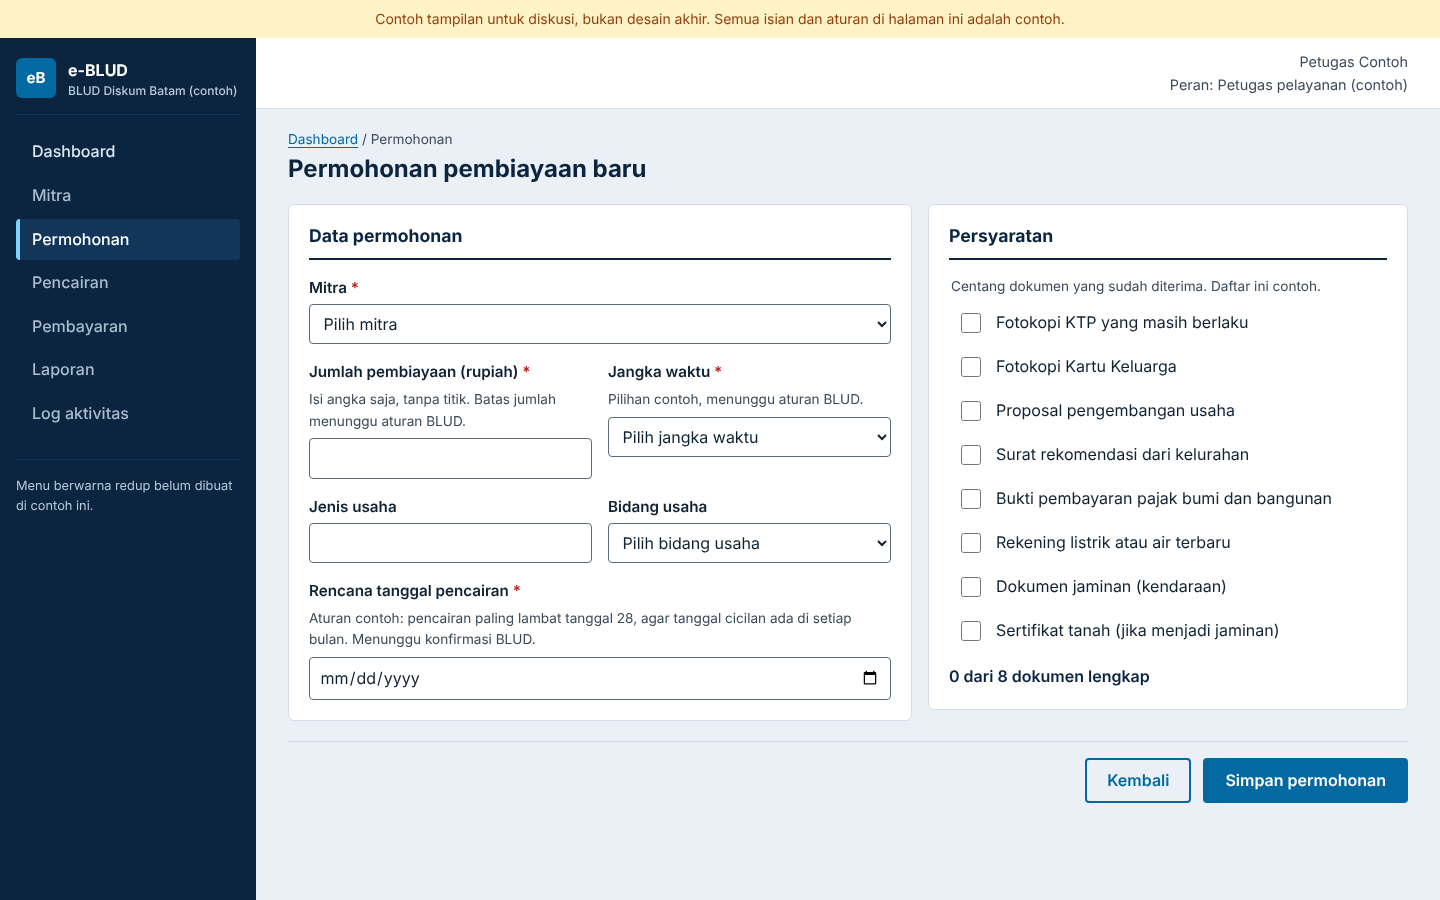
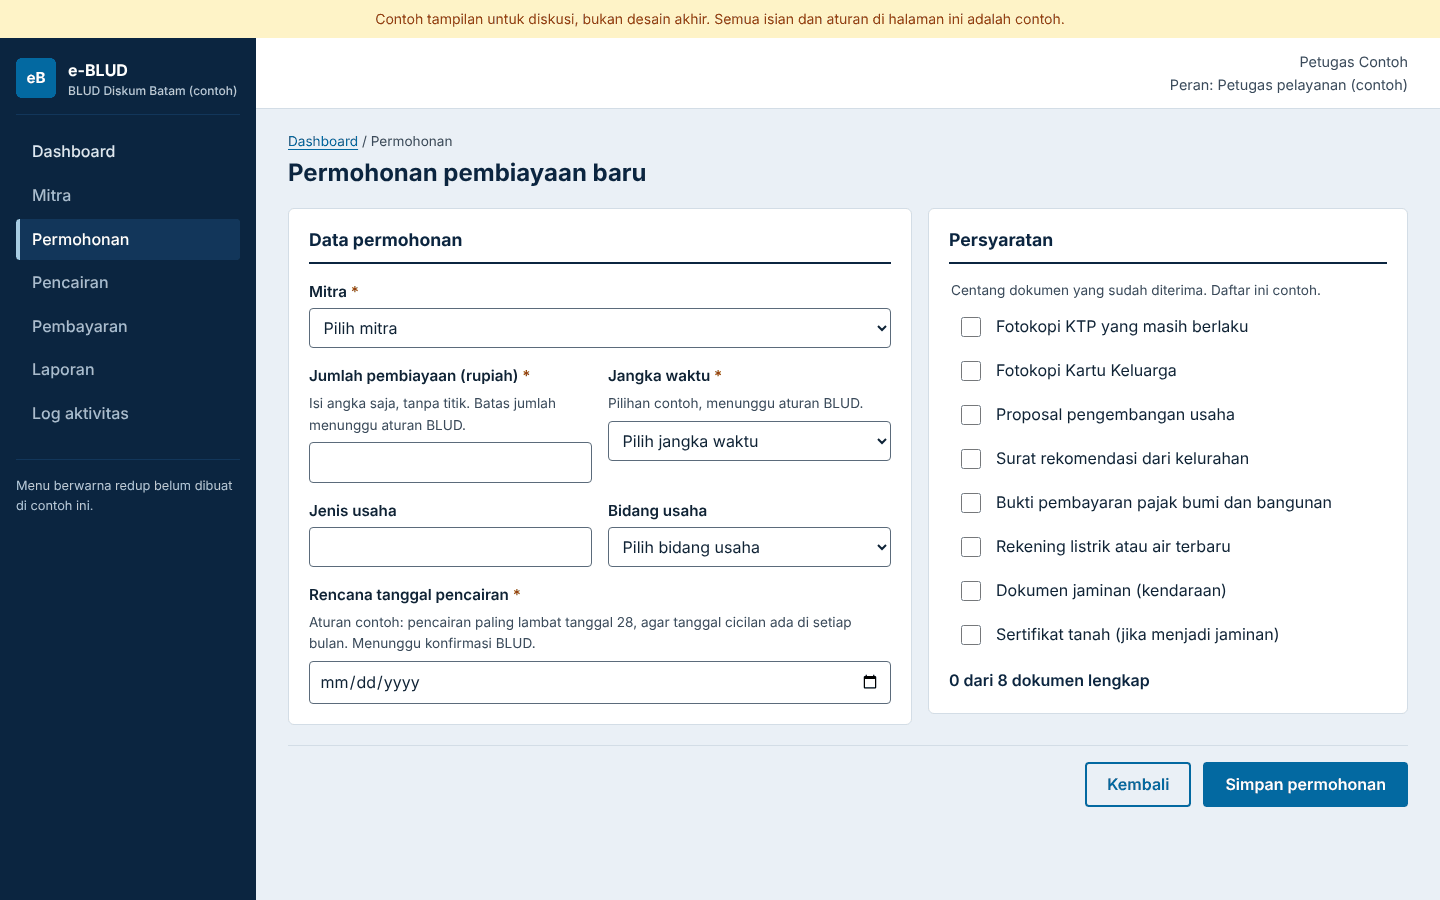
docs(e-blud): finish first round (accessibility pass, docs, screenshots)
Claude-Session: https://claude.ai/code/session_01Ac9P1xaDYX4ZS4zSueCX7p

diff --git a/projects/e-blud/mockups/admin.css b/projects/e-blud/mockups/admin.css
@@ -21,6 +21,8 @@ body.admin { background: #eaf0f6; --radius-card: 6px; --radius-control: 4px; }
   border: 0;
   overflow-y: auto;
 }
+/* Focus ring on dark surfaces needs a light colour (3:1 against navy) */
+.sidebar :focus-visible, .skip-link:focus-visible { outline-color: #bae6fd; }
 .sidebar::backdrop { background: rgb(11 37 64 / 0.55); }
 @media (min-width: 60rem) {
   .sidebar { display: block; position: static; inline-size: auto; block-size: auto; }
@@ -47,7 +49,7 @@ a.nav-item:hover { background: var(--navy-800); }
 .page-head { display: flex; flex-wrap: wrap; align-items: end; justify-content: space-between; gap: 1rem; margin-block-end: 1.25rem; }
 .page-head h1 { font-size: 1.5rem; color: var(--navy-900); }
 .crumbs { font-size: 0.85rem; color: var(--ink-2); margin-block-end: 0.25rem; }
-.crumbs a { color: var(--sky-700); }
+.crumbs a { display: inline-block; min-block-size: 1.5rem; padding-block: 0.125rem; color: var(--sky-700); }
 
 .panel { background: var(--surface); border: 1px solid var(--line); border-radius: var(--radius-card); padding: 1.25rem; }
 .panel h2, .chart h2 { font-size: 1.1rem; color: var(--navy-900); }
@@ -122,3 +124,9 @@ fieldset { border: 0; margin: 0; padding: 0; min-inline-size: 0; }
 .actions { display: flex; flex-wrap: wrap; gap: 0.75rem; justify-content: flex-end; margin-block-start: 1.25rem; padding-block-start: 1rem; border-block-start: 1px solid var(--line); }
 #save-status { margin-block-start: 1rem; }
 .notice { padding: 0.75rem 1rem; border-radius: var(--radius-card); border: 1px solid var(--ok); background: var(--ok-bg); color: var(--ok); font-weight: 600; }
+
+/* Native date inputs: make the keyboard focus ring explicit */
+input:focus-visible, select:focus-visible, textarea:focus-visible, input[type="date"]:focus-within {
+  outline: 3px solid var(--sky-800);
+  outline-offset: 2px;
+}

diff --git a/projects/e-blud/mockups/a11y-review.md b/projects/e-blud/mockups/a11y-review.md
@@ -1,0 +1,25 @@
+# Accessibility review: first-round mockups
+
+Date: 2026-11-19. Pages: `public-home.html`, `admin-dashboard.html`, `admin-permohonan.html`. Standard: WCAG 2.2 AA.
+
+## Automated
+`npm run check:a11y` (axe-core, tags wcag2a, wcag2aa, wcag21a, wcag21aa, wcag22aa): **no violations** on all three pages. One "needs manual check" item remains on the public page (hero text over a gradient); worked out by hand below.
+
+## Manual checks and results
+
+| Area | Result |
+|---|---|
+| Contrast (24 text and graphic pairs) | All pass. Lowest: bar colour sky-600 vs white 4.1:1 (graphics need 3:1); sky-700 on sky-50 5.6:1. Hero text on the gradient: 8.5 to 8.9:1 for text, 5.6:1 for the quiet button. |
+| Focus ring | 3px ring on every tab stop. **Fixed:** the ring on the dark sidebar was 2.05:1; now light blue, 11.7:1. **Fixed:** the native date field showed no outline when tabbed to. |
+| Keyboard | Skip link first. Menu (public) and drawer (admin) open with Enter or Space, close with Escape, and return focus to the button. Status filter radios show a ring on their label. |
+| Target size | No interactive target under 24px. **Fixed:** the breadcrumb link was 16px high. Buttons and fields are 40 to 44px. |
+| Reflow | No horizontal page scroll at 320px, also with WCAG text-spacing overrides. Tables become stacked cards in narrow containers. |
+| Structure | One h1 per page, headings in order, landmarks present (header, nav, main, footer), table wrapper is a named, focusable region. |
+| Forms | Every field has a visible label; hints sit above the field; errors show text plus an icon after interaction (`:user-invalid`) and are linked with `aria-describedby`; focus moves to the first invalid field on submit. |
+| Charts | Decorative bars are hidden from assistive tech; each chart has a real data table ("Lihat tabel data"). Bars never carry meaning by colour alone (values and labels). |
+| Motion | No animations; `prefers-reduced-motion` respected. |
+
+## Not tested here
+- A real screen reader (VoiceOver, NVDA). Recommend one pass before the client sees anything.
+- Browsers other than Chromium.
+- Real content: the nav labels, copy and data are placeholders.

diff --git a/projects/e-blud/plans/2026-11-19-first-round.md b/projects/e-blud/plans/2026-11-19-first-round.md
@@ -126,3 +126,11 @@
 - Spec coverage: research (T1), PRD v0 with open questions (T2), three mockups (T3–T4), accessibility (T5), non-goals untouched, merge rule (T5).
 - Anti-goals covered: identity and personal data greps (T1, T2, T3, T4), "contoh" labels (T3 check), assumptions flagged (T2).
 - Names consistent: `shared.css` tokens, `check.cjs`, F1–F14.
+
+## Deviations made while executing (2026-11-19)
+
+- Charts are CSS-only bars (monthly columns and horizontal bars), not Chart.js and not a donut. Reason: single-series magnitude comparisons need no library, no CDN and no categorical palette; each chart has a "Lihat tabel data" table. No third-party script is loaded.
+- Added `mockups/admin.css` (admin layout) next to `shared.css` so the public page does not carry admin styles.
+- The persyaratan checklist has 8 generic items, not 10 (the reference's three collateral items are merged into two).
+- Task 5 used `npm run check:a11y` (axe-core, WCAG 2.2 AA) for automation, plus a manual pass for keyboard, focus, target size, reflow and contrast. Axe MCP is not used.
+- Screenshots are palette-optimised PNGs to stay under 200K each.

diff --git a/projects/e-blud/design.md b/projects/e-blud/design.md
@@ -115,10 +115,10 @@ Each is an assumption from e-Dagulir that must be confirmed with the client:
 - PRD wording, acceptance criteria and success measures, using `docs/checklists/prd.md`.
 - File layout inside `research/` and `mockups/`.
 
-## Next steps once approved
+## Next steps (first round)
 
-1. The project folder `projects/e-blud/` already exists.
-2. Write `research/` notes.
-3. Draft `prd.md` v0 (Indonesian).
-4. Build the three mockups with `frontend-design` and `modern-web-guidance`, then check accessibility.
-5. Show you the result. Nothing goes to the client until you say so.
+1. Done: project folder `projects/e-blud/`.
+2. Done: `research/` notes.
+3. Done: `prd.md` v0 (Indonesian), marked DRAFT.
+4. Done: three mockups in `mockups/` (public home, admin dashboard, admin permohonan form), checked with `check:a11y` and a manual accessibility review (`mockups/a11y-review.md`).
+5. Next: you review. Nothing goes to the client until you say so. After the client reacts to the feature list, update the PRD first, then the guidebook.
